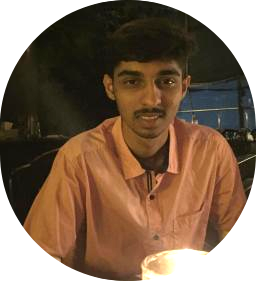
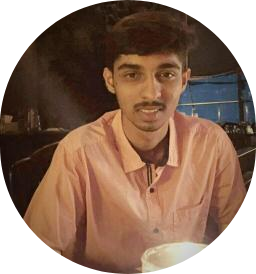
Corrected a minor language error in the about section and changed the profile picture to a brighter one

diff --git a/_site/index.html b/_site/index.html
@@ -351,7 +351,7 @@
                     <p style="text-align: justify;">I am a final year BTech Information Technology student at College of Engineering, Pune (COEP). I am a system programming and embedded programming enthusiast with particular interests in understanding computer architecture concepts and studying about related domains. I have worked on embedded systems during my time at CSAT. Having been involved in the ongoing research in cube satellite systems aimed towards designing CSAT's second satellite has been an exhilarating experience!</p>
                 </div>
                 <div class="col-lg-4">
-                    <p style="text-align: justify;"> I have been a member of COEP's <a href="https://www.coep.org.in/csat/" style="color:darkcyan;">Student Satellite Team </a> (CSAT) for a period of almost four years now, and until recently, was the Communication Subsystem Lead there. I have internship experience at <a href="https://www.barclays.in/global-service-centre/btci/" style="color:darkcyan;">Barclays Plc</a> and <a href="https://www.promorphosis.com/" style="color:darkcyan;">Promorphosis Pvt Ltd</a>. I have also undertaken the roles of a Marketing and Finance Portfolio Coordinator and an Event Head for <a href="https://www.kaggle.com/c/predict-x-problem-1" style="color:darkcyan;">Predict-X</a> in <a href="https://www.coep.org.in/campus_festivals/mindspark" style="color:darkcyan;">MindSpark</a>, COEP's annual technical fest, and have played for COEP's Football Team B in <a href="https://www.coep.org.in/campus_festivals/zest" style="color:darkcyan;">Zest</a>, it's annual sports fest.</p>
+                    <p style="text-align: justify;"> I have been a member of COEP's <a href="https://www.coep.org.in/csat/" style="color:darkcyan;">Student Satellite Team </a> (CSAT) for a period of almost four years now, and until recently, was the Communication Subsystem Lead there. I have internship experience at <a href="https://www.barclays.in/global-service-centre/btci/" style="color:darkcyan;">Barclays Plc</a> and <a href="https://www.promorphosis.com/" style="color:darkcyan;">Promorphosis Pvt Ltd</a>. I have also undertaken the roles of a Marketing and Finance Portfolio Coordinator and an Event Head for <a href="https://www.kaggle.com/c/predict-x-problem-1" style="color:darkcyan;">Predict-X</a> in <a href="https://www.coep.org.in/campus_festivals/mindspark" style="color:darkcyan;">MindSpark</a>, COEP's annual technical fest, and have played for COEP's Football Team B in <a href="https://www.coep.org.in/campus_festivals/zest" style="color:darkcyan;">Zest</a>, its annual sports fest.</p>
                 </div>
                 <div class="col-lg-8 col-lg-offset-2 text-center">
                     <a href="https://drive.google.com/open?id=1cGXV1EX9VMSgOzNK-QR1B1VXa3eUJCxB" class="btn btn-lg btn-outline">
@@ -403,7 +403,7 @@
             <div class="container">
                 <div class="row">
                     <div class="col-lg-12">
-                        Copyright &copy;  2020 Niramay Vaidya. Powered by <a href="https://jekyllrb.com/" style="color: darkcyan">Jekyll</a> with the <a href="https://startbootstrap.com/themes/freelancer/" style="color: darkcyan">Freelancer</a> theme. Hosted by <a href="https://pages.github.com/" style="color: darkcyan">GitHub Pages</a>. Last updated July 10, 2020.
+                        Copyright &copy;  2020 Niramay Vaidya. Powered by <a href="https://jekyllrb.com/" style="color: darkcyan">Jekyll</a> with the <a href="https://startbootstrap.com/themes/freelancer/" style="color: darkcyan">Freelancer</a> theme. Hosted by <a href="https://pages.github.com/" style="color: darkcyan">GitHub Pages</a>. Last updated August 9, 2020.
                     </div>
                 </div>
             </div>
@@ -452,7 +452,7 @@
                                 
                                 
                                     <li>Links:
-                                        <strong><a href="https://github.com/NiramayVaidya/Firefox_Extension_New_Tab_Wallpaper_Carousel">GitHub Repository</a>
+                                        <strong><a href="https://github.com/NiramayVaidya/Firefox_Extension_New_Tab_Wallpaper_Carousel">GitHub Repository</a>,
                                         </strong>
                                         <strong><a href="https://addons.mozilla.org/en-US/firefox/addon/new-tab-wallpaper-carousel/">Firefox Add-on Page</a>
                                         </strong>
@@ -962,7 +962,7 @@
                                 
                                 
                                     <li>Publication Links:
-                                        <strong><a href="https://iafastro.directory/iac/paper/id/41391/summary/">Abstract 1</a>
+                                        <strong><a href="https://iafastro.directory/iac/paper/id/41391/summary/">Abstract 1</a>,
                                         </strong>
                                         <strong><a href="https://iafastro.directory/iac/paper/id/41291/summary/">Abstract 2</a>
                                         </strong>

diff --git a/_includes/about.html b/_includes/about.html
@@ -12,7 +12,7 @@
                     <p style="text-align: justify;">I am a final year BTech Information Technology student at College of Engineering, Pune (COEP). I am a system programming and embedded programming enthusiast with particular interests in understanding computer architecture concepts and studying about related domains. I have worked on embedded systems during my time at CSAT. Having been involved in the ongoing research in cube satellite systems aimed towards designing CSAT's second satellite has been an exhilarating experience!</p>
                 </div>
                 <div class="col-lg-4">
-                    <p style="text-align: justify;"> I have been a member of COEP's <a href="https://www.coep.org.in/csat/" style="color:darkcyan;">Student Satellite Team </a> (CSAT) for a period of almost four years now, and until recently, was the Communication Subsystem Lead there. I have internship experience at <a href="https://www.barclays.in/global-service-centre/btci/" style="color:darkcyan;">Barclays Plc</a> and <a href="https://www.promorphosis.com/" style="color:darkcyan;">Promorphosis Pvt Ltd</a>. I have also undertaken the roles of a Marketing and Finance Portfolio Coordinator and an Event Head for <a href="https://www.kaggle.com/c/predict-x-problem-1" style="color:darkcyan;">Predict-X</a> in <a href="https://www.coep.org.in/campus_festivals/mindspark" style="color:darkcyan;">MindSpark</a>, COEP's annual technical fest, and have played for COEP's Football Team B in <a href="https://www.coep.org.in/campus_festivals/zest" style="color:darkcyan;">Zest</a>, it's annual sports fest.</p>
+                    <p style="text-align: justify;"> I have been a member of COEP's <a href="https://www.coep.org.in/csat/" style="color:darkcyan;">Student Satellite Team </a> (CSAT) for a period of almost four years now, and until recently, was the Communication Subsystem Lead there. I have internship experience at <a href="https://www.barclays.in/global-service-centre/btci/" style="color:darkcyan;">Barclays Plc</a> and <a href="https://www.promorphosis.com/" style="color:darkcyan;">Promorphosis Pvt Ltd</a>. I have also undertaken the roles of a Marketing and Finance Portfolio Coordinator and an Event Head for <a href="https://www.kaggle.com/c/predict-x-problem-1" style="color:darkcyan;">Predict-X</a> in <a href="https://www.coep.org.in/campus_festivals/mindspark" style="color:darkcyan;">MindSpark</a>, COEP's annual technical fest, and have played for COEP's Football Team B in <a href="https://www.coep.org.in/campus_festivals/zest" style="color:darkcyan;">Zest</a>, its annual sports fest.</p>
                 </div>
                 <div class="col-lg-8 col-lg-offset-2 text-center">
                     <a href="https://drive.google.com/open?id=1cGXV1EX9VMSgOzNK-QR1B1VXa3eUJCxB" class="btn btn-lg btn-outline">

diff --git a/_includes/modals.html b/_includes/modals.html
@@ -33,7 +33,7 @@
                                 {% endif %}
                                 {% if post.link and post.link_another %}
                                     <li>Links:
-                                        <strong><a href="{{ post.link }}">GitHub Repository</a>
+                                        <strong><a href="{{ post.link }}">GitHub Repository</a>,
                                         </strong>
                                         <strong><a href="{{ post.link_another }}">Firefox Add-on Page</a>
                                         </strong>
@@ -46,7 +46,7 @@
                                 {% endif %}
                                 {% if post.publication and post.publication_another %}
                                     <li>Publication Links:
-                                        <strong><a href="{{ post.publication }}">Abstract 1</a>
+                                        <strong><a href="{{ post.publication }}">Abstract 1</a>,
                                         </strong>
                                         <strong><a href="{{ post.publication_another }}">Abstract 2</a>
                                         </strong>
